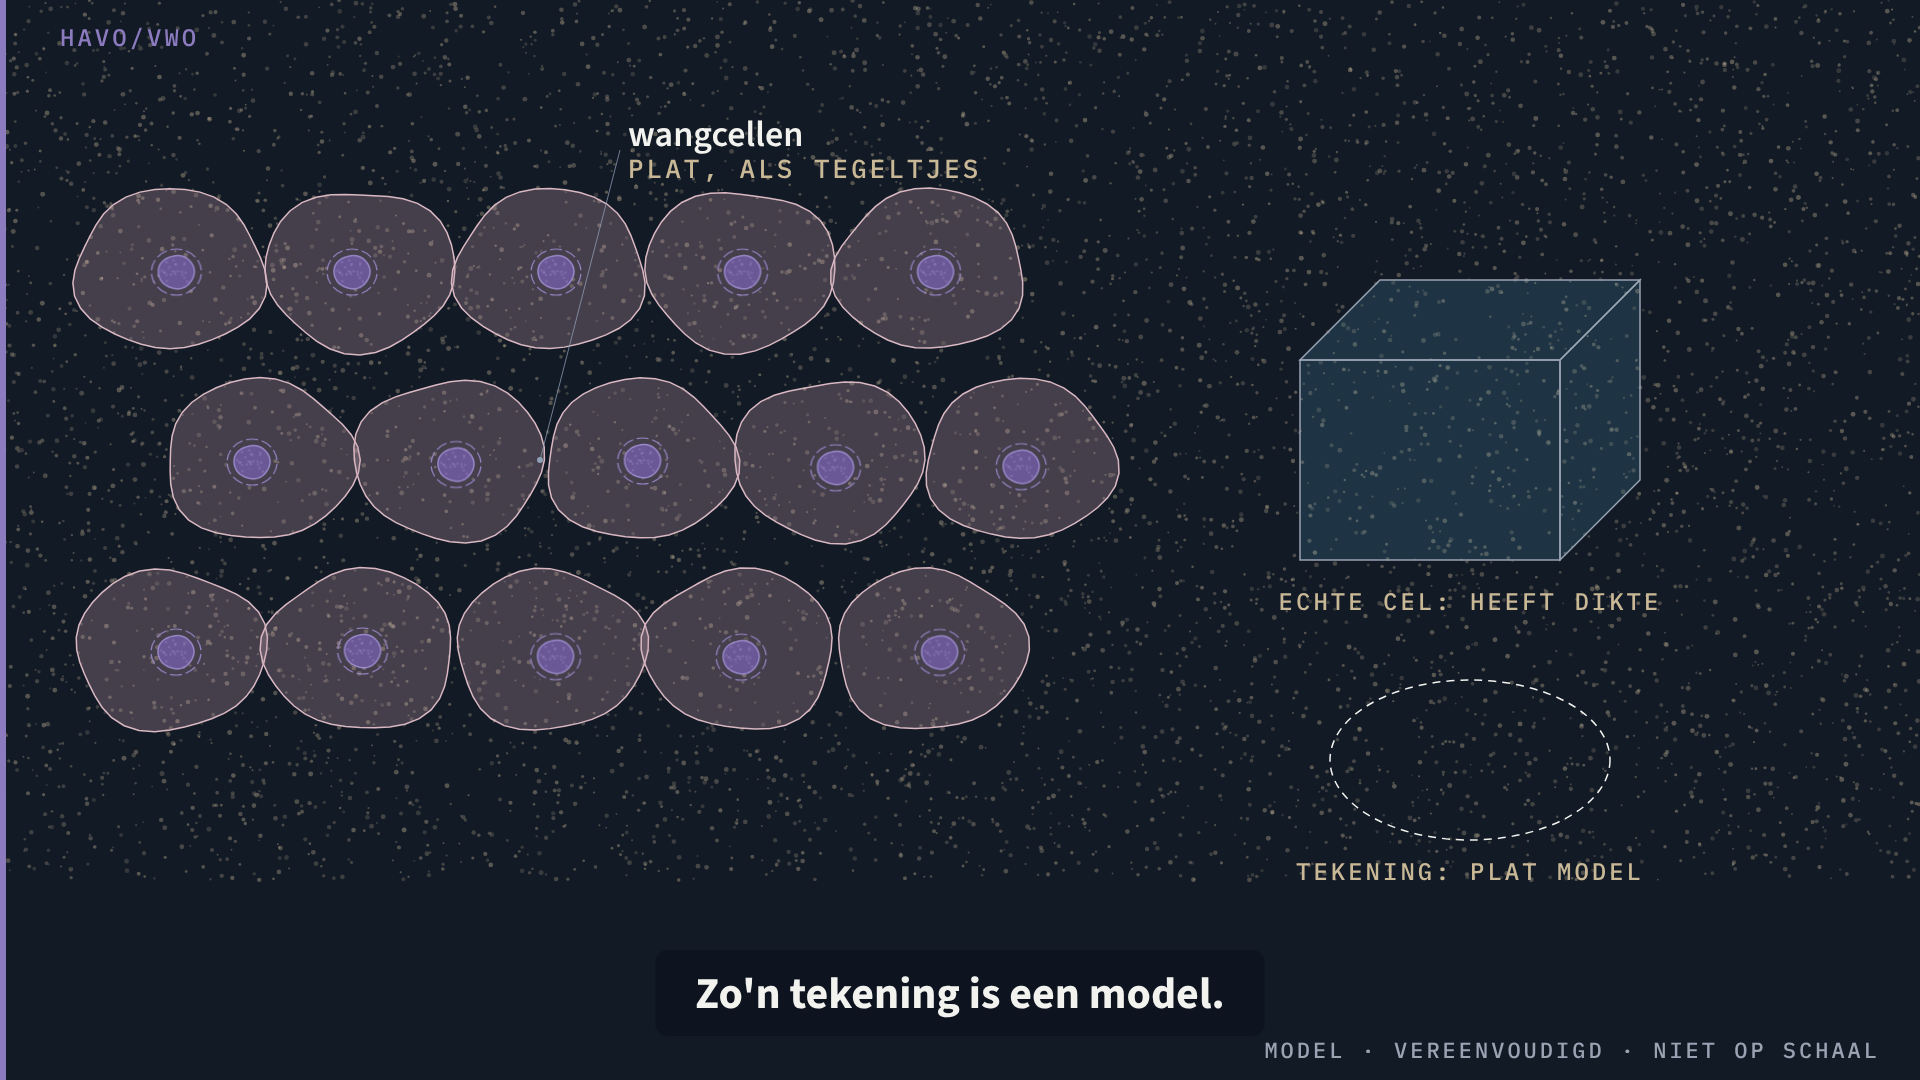
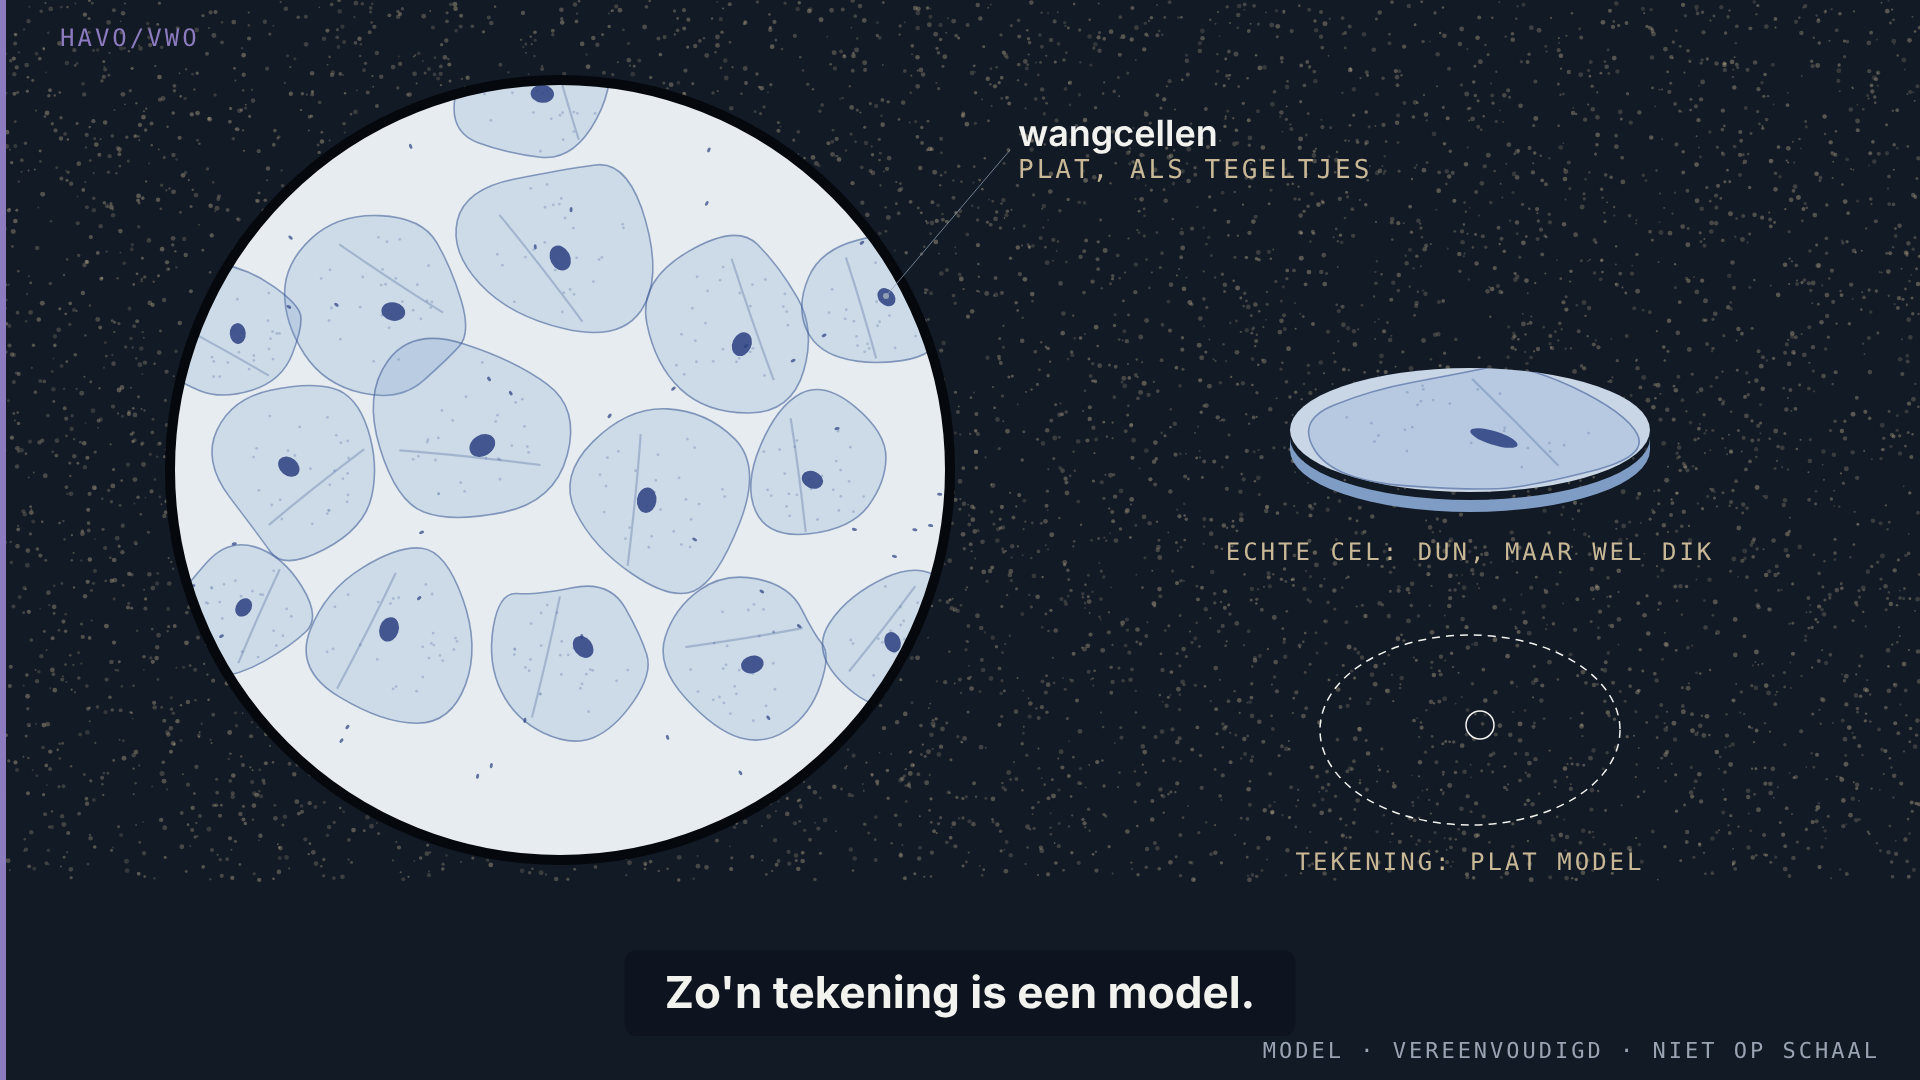
Alles is cel: stijlframes keuken en wangcellen natuurlijker
Claude-Session: https://claude.ai/code/session_01Gw2DRjDkRH759fcBi7bc7z

diff --git a/films/onderbouw/32a/1-alles-is-cel/bron/bouw/frames.html b/films/onderbouw/32a/1-alles-is-cel/bron/bouw/frames.html
@@ -16,24 +16,100 @@ function caption(s){ ctx.save(); ctx.font=fTekst(44,700); const w=Math.min(1600,
 function metaTop(s){ metaText(ctx,s,60,46,C.text2,'left',20); }
 function hvBar(){ ctx.fillStyle=C.paars; ctx.fillRect(0,0,6,H); metaText(ctx,'havo/vwo',60,46,C.paars,'left',24); }
 
-// ---- lettuce (Macro, flat, geometric) ----
+// ---- lettuce v2: naturalistic leaves along a curved spine, ruffled edge, veins ----
+function leafPath(pts){ ctx.beginPath(); pts.forEach((p,i)=>i?ctx.lineTo(p[0],p[1]):ctx.moveTo(p[0],p[1])); ctx.closePath(); }
+function slaBlad(x,y,len,wid,a0,curl,seed,col,vit){
+  // spine: start at base (x,y), direction a0 (rad, 0=up), curvature curl (rad over length)
+  const N=40, spine=[]; let px=x, py=y;
+  for(let i=0;i<=N;i++){ const t=i/N, a=a0+curl*t*t; spine.push([px,py,a,t]); px+=Math.sin(a)*len/N; py-=Math.cos(a)*len/N; }
+  const L=[],R=[];
+  spine.forEach(([sx,sy,a,t],i)=>{ const prof=Math.sqrt(Math.max(0,1-Math.pow((t-0.58)/0.58,2)));
+    const base=prof*wid*(0.45+0.55*t);
+    const ruf=wid*0.07*prof*(0.4+t)*(Math.sin(t*24+seed)+0.45*Math.sin(t*47+seed*2));
+    const nx=Math.cos(a), ny=Math.sin(a);
+    L.push([sx-nx*(base+ruf), sy-ny*(base+ruf)]); R.push([sx+nx*(base-ruf*0.8), sy+ny*(base-ruf*0.8)]); });
+  const outline=L.concat(R.reverse());
+  leafPath(outline); ctx.fillStyle=col.blad; ctx.fill(); ctx.strokeStyle=col.rand; ctx.lineWidth=1.4; ctx.stroke();
+  // lighter inner zone near the midrib (flat, no gradient)
+  const inner=[]; spine.forEach(([sx,sy,a,t])=>{ const w=Math.sqrt(Math.max(0,1-Math.pow((t-0.58)/0.58,2)))*wid*(0.45+0.55*t)*0.42; inner.push([sx-Math.cos(a)*w, sy-Math.sin(a)*w]); });
+  const inner2=[]; spine.slice().reverse().forEach(([sx,sy,a,t])=>{ const w=Math.sqrt(Math.max(0,1-Math.pow((t-0.58)/0.58,2)))*wid*(0.45+0.55*t)*0.42; inner2.push([sx+Math.cos(a)*w, sy+Math.sin(a)*w]); });
+  leafPath(inner.concat(inner2)); ctx.fillStyle=col.licht; ctx.fill();
+  // midrib
+  ctx.beginPath(); spine.forEach(([sx,sy],i)=>i?ctx.lineTo(sx,sy):ctx.moveTo(sx,sy)); ctx.strokeStyle=col.nerf; ctx.lineWidth=3.2*vit; ctx.stroke();
+  // side veins
+  ctx.lineWidth=1.1; ctx.strokeStyle=col.nerf;
+  for(let i=4;i<N-2;i+=4){ const [sx,sy,a,t]=spine[i]; const w=Math.sqrt(Math.max(0,1-Math.pow((t-0.58)/0.58,2)))*wid*(0.45+0.55*t)*0.8;
+    for(const d of [-1,1]){ const va=a+d*0.9; ctx.beginPath(); ctx.moveTo(sx,sy); ctx.quadraticCurveTo(sx+Math.sin(a)*w*0.25+d*Math.cos(a)*w*0.5, sy-Math.cos(a)*w*0.25+d*Math.sin(a)*w*0.5, sx+Math.sin(va)*w*0.55*1+d*Math.cos(a)*w*0.35, sy-Math.cos(va)*w*0.55+d*Math.sin(a)*w*0.35); ctx.stroke(); } }
+}
+function pillLabel(name,meta,ax,ay,lx,ly,boxRight){
+  ctx.save(); ctx.font=fTekst(36,600); const w1=ctx.measureText(name).width; ctx.font=fMeta(24); const w2=meta?ctx.measureText(meta.toUpperCase()).width+meta.length*3:0;
+  const w=Math.max(w1,w2)+36, h=meta?92:56, right=lx<ax&&!boxRight, x=right?lx-w:lx, y=ly-40;
+  const ex=Math.min(Math.max(ax,x),x+w), ey=Math.min(Math.max(ay,y),y+h);
+  ctx.strokeStyle='#1A2740'; ctx.lineWidth=1.5; ctx.beginPath(); ctx.moveTo(ax,ay); ctx.lineTo(ex,ey); ctx.stroke();
+  ctx.fillStyle='#1A2740'; ctx.beginPath(); ctx.arc(ax,ay,4,0,6.283); ctx.fill();
+  roundRect(ctx,x,y,w,h,6); ctx.fillStyle='rgba(18,26,38,0.88)'; ctx.fill();
+  text(ctx,name,x+18,y+40,fTekst(36,600),C.text,'left'); if(meta) metaText(ctx,meta,x+18,y+76,C.grain,'left',24); ctx.restore(); }
+const FRIS={blad:'#5E9E4F',licht:'#8DC46F',rand:'#A9D88A',nerf:'#CDE8B0'};
+const FRIS2={blad:'#4F8C44',licht:'#79B562',rand:'#97CB7C',nerf:'#C2E0A6'};
+const SLAP={blad:'#7E9A57',licht:'#A2B874',rand:'#B5C68C',nerf:'#D3DDB4'};
+function blad2(x,y,len,wid,a0,curl,seed,col,crinkle){
+  // broad, rounded lettuce leaf: obovate outline with a fine crinkled edge
+  const N=60, sp=[]; let px=x,py=y;
+  for(let i=0;i<=N;i++){ const t=i/N, a=a0+curl*t*t; sp.push([px,py,a,t]); px+=Math.sin(a)*len/N; py-=Math.cos(a)*len/N; }
+  const W=t=>wid*Math.pow(Math.sin(Math.PI*Math.min(t,0.999)),0.55)*(0.35+0.65*Math.pow(t,0.6));
+  const L=[],R=[];
+  sp.forEach(([sx,sy,a,t])=>{ const w=W(t), c=wid*crinkle*Math.pow(t,0.8)*(Math.sin(t*90+seed)*0.6+Math.sin(t*37+seed*1.7)*0.4);
+    const nx=Math.cos(a), ny=Math.sin(a); L.push([sx-nx*(w+c),sy-ny*(w+c)]); R.push([sx+nx*(w-c*0.9),sy+ny*(w-c*0.9)]); });
+  leafPath(L.concat(R.slice().reverse())); ctx.fillStyle=col.blad; ctx.fill(); ctx.strokeStyle=col.rand; ctx.lineWidth=1.6; ctx.stroke();
+  // light band along the midrib (flat second tone)
+  const I=[],J=[]; sp.forEach(([sx,sy,a,t])=>{ const w=W(t)*0.38*(1-t*0.4); I.push([sx-Math.cos(a)*w,sy-Math.sin(a)*w]); J.push([sx+Math.cos(a)*w,sy+Math.sin(a)*w]); });
+  leafPath(I.concat(J.reverse())); ctx.fillStyle=col.licht; ctx.fill();
+  ctx.beginPath(); sp.slice(0,N-6).forEach(([sx,sy],i)=>i?ctx.lineTo(sx,sy):ctx.moveTo(sx,sy)); ctx.strokeStyle=col.nerf; ctx.lineWidth=4; ctx.stroke();
+  ctx.lineWidth=1.2; ctx.globalAlpha=0.7;
+  for(let i=8;i<N-8;i+=7){ const [sx,sy,a,t]=sp[i], w=W(t)*0.85; for(const d of [-1,1]){ const ex=sx+d*Math.cos(a)*w+Math.sin(a)*w*0.45, ey=sy+d*Math.sin(a)*w-Math.cos(a)*w*0.45;
+    ctx.beginPath(); ctx.moveTo(sx,sy); ctx.quadraticCurveTo(sx+d*Math.cos(a)*w*0.5, sy+d*Math.sin(a)*w*0.5, ex, ey); ctx.stroke(); } }
+  ctx.globalAlpha=1;
+}
+const KROP_F=[{blad:'#3F7F3A',licht:'#5E9C4C',rand:'#77B060',nerf:'#B9DB9C'},{blad:'#4E9443',licht:'#71B058',rand:'#8CC470',nerf:'#C8E6AA'},{blad:'#73B356',licht:'#9CCD75',rand:'#B5DD8E',nerf:'#E0F2C8'},{blad:'#A2D27A',licht:'#C3E59C',rand:'#D4EDB4',nerf:'#EEF8DC'}];
+const KROP_S=[{blad:'#6F8A4A',licht:'#8CA35F',rand:'#A0B577',nerf:'#CBD6A8'},{blad:'#7E9A55',licht:'#9BB06C',rand:'#AEC083',nerf:'#D4DDB2'},{blad:'#97AE68',licht:'#B2C483',rand:'#C2D097',nerf:'#E1E8C6'},{blad:'#B4C682',licht:'#CAD89E',rand:'#D6E1B0',nerf:'#ECF1D8'}];
 function krop(x,y,s,slap){
-  const leaves=[[-1,0.9],[1,0.9],[-0.55,1.1],[0.55,1.1],[0,1.2]];
-  leaves.forEach(([d,hh],i)=>{ ctx.save(); ctx.translate(x,y);
-    const tip = slap? {x:d*150*s, y:-hh*40*s+60*s} : {x:d*70*s, y:-hh*150*s};
-    ctx.beginPath(); ctx.moveTo(-40*s+d*20*s,0); ctx.quadraticCurveTo(tip.x*0.6-50*s, (tip.y)*0.8, tip.x, tip.y);
-    ctx.quadraticCurveTo(tip.x*0.6+50*s, tip.y*0.8, 40*s+d*20*s,0); ctx.closePath();
-    shape(ctx, i%2? '#6FB57F':'#5FA86E', lighten('#5FA86E',0.35), 1.5); ctx.restore(); });
-  ctx.beginPath(); ctx.ellipse(x,y,70*s,26*s,0,0,6.283); shape(ctx,'#8FCB9B',lighten('#8FCB9B',0.3),1.5);
+  const P=slap?KROP_S:KROP_F;
+  // rings from outside (back) to inside (front/top)
+  const rings = slap
+    ? [{n:7,spread:1.45,curl:0.5,len:230,wid:118,dx:70},{n:6,spread:1.15,curl:0.45,len:190,wid:104,dx:50},{n:5,spread:0.8,curl:0.4,len:140,wid:84,dx:30},{n:3,spread:0.4,curl:0.35,len:90,wid:60,dx:12}]
+    : [{n:7,spread:0.95,curl:-0.25,len:215,wid:112,dx:62},{n:6,spread:0.72,curl:-0.35,len:200,wid:104,dx:44},{n:5,spread:0.5,curl:-0.45,len:175,wid:92,dx:26},{n:3,spread:0.22,curl:-0.4,len:140,wid:78,dx:10}];
+  rings.forEach((r,k)=>{ const order=[]; for(let i=0;i<r.n;i++) order.push(i);
+    order.sort((a,b)=>Math.abs(b-(r.n-1)/2)-Math.abs(a-(r.n-1)/2)); // sides first, centre leaf last
+    order.forEach(i=>{ const u=r.n>1? i/(r.n-1)*2-1 : 0, h=hash(i*7+k*13);
+      const a0=u*r.spread, curl=u*r.curl ;
+      blad2(x+u*r.dx*s, y-4*s, r.len*s*(0.9+0.2*h), r.wid*s*(0.9+0.15*h), a0, curl, i*2.3+k*5, P[k], slap?0.035:0.05); }); });
 }
 function frameKeuken(){
-  ctx.fillStyle=DAY.sky; ctx.fillRect(0,0,W,H);
-  ctx.fillStyle='#7E9AB4'; for(let i=0;i<7;i++){ ctx.fillRect(140+i*250,120,180,4); } // tegelvoegen, subtiel
-  ctx.fillStyle=DAY.sand; ctx.fillRect(0,640,W,40); ctx.fillStyle='#B08A5C'; ctx.fillRect(0,680,W,CAPTION_Y-680+200);
-  krop(620,640,1.25,false); krop(1300,640,1.25,true);
-  label(ctx,'stevig','net uit de koelkast',660,470,860,300,1);
-  label(ctx,'slap','een dag op het aanrecht',1330,600,1460,380,1);
-  metaTop('onderbouw · kerndoelen · film 1');
+  // wall + window with daylight garden
+  ctx.fillStyle='#8EA7BE'; ctx.fillRect(0,0,W,H);
+  ctx.fillStyle='#9BB2C7'; for(let r=0;r<6;r++) for(let c=0;c<16;c++){ const tx=c*124+(r%2)*62-30, ty=60+r*96; roundRect(ctx,tx,ty,118,90,3); ctx.fill(); }
+  ctx.fillStyle='#E9EEF2'; roundRect(ctx,1230,40,560,420,6); ctx.fill();
+  ctx.fillStyle='#A9CBE4'; ctx.fillRect(1250,60,520,380);
+  ctx.fillStyle='#6F9F63'; ctx.beginPath(); ctx.moveTo(1250,330); for(let i=0;i<=26;i++){ ctx.lineTo(1250+i*20, 300+Math.sin(i*0.9)*22+hash(i)*18); } ctx.lineTo(1770,440); ctx.lineTo(1250,440); ctx.closePath(); ctx.fill();
+  ctx.fillStyle='#5A8752'; ctx.beginPath(); ctx.arc(1360,290,70,0,6.283); ctx.arc(1440,270,60,0,6.283); ctx.fill();
+  ctx.fillStyle='#E9EEF2'; ctx.fillRect(1505,60,10,380); ctx.fillRect(1250,245,520,10);
+  // wooden counter top + front
+  ctx.fillStyle='#B98B5A'; ctx.fillRect(0,600,W,70);
+  ctx.strokeStyle='#A47648'; ctx.lineWidth=1.2; for(let i=0;i<9;i++){ ctx.beginPath(); ctx.moveTo(0,608+i*7); for(let x=0;x<=W;x+=60) ctx.lineTo(x,608+i*7+Math.sin(x*0.004+i)*2.5); ctx.stroke(); }
+  ctx.fillStyle='#8C6440'; ctx.fillRect(0,670,W,H-670);
+  ctx.fillStyle='#7A5636'; for(let i=0;i<6;i++){ roundRect(ctx,60+i*320,700,290,170,6); ctx.fill(); }
+  ctx.fillStyle='#C9B896'; for(let i=0;i<6;i++){ roundRect(ctx,175+i*320,715,60,8,4); ctx.fill(); }
+  // shadows under the heads (flat, darker wood)
+  ctx.fillStyle='rgba(60,40,20,0.25)'; ctx.beginPath(); ctx.ellipse(520,628,230,22,0,0,6.283); ctx.fill(); ctx.beginPath(); ctx.ellipse(1075,630,280,20,0,0,6.283); ctx.fill();
+  krop(520,625,1.0,false); krop(1075,625,0.95,true);
+  // glass bowl of water on the right
+  ctx.fillStyle='rgba(90,164,201,0.35)'; ctx.beginPath(); ctx.moveTo(1480,545); ctx.lineTo(1730,545); ctx.lineTo(1705,625); ctx.lineTo(1505,625); ctx.closePath(); ctx.fill();
+  ctx.strokeStyle='#DCEAF3'; ctx.lineWidth=2; ctx.beginPath(); ctx.moveTo(1465,500); ctx.lineTo(1490,628); ctx.lineTo(1720,628); ctx.lineTo(1745,500); ctx.stroke();
+  ctx.strokeStyle='rgba(220,234,243,0.8)'; ctx.beginPath(); ctx.moveTo(1474,545); ctx.lineTo(1736,545); ctx.stroke();
+  pillLabel('stevig','net uit de koelkast',520,450,130,230,true);
+  pillLabel('slap','een dag op het aanrecht',1075,520,720,300,true);
+  pillLabel('koud water','',1600,590,1500,760,true);
+  metaText(ctx,'onderbouw · kerndoelen · film 1',60,46,'#1A2740','left',20);
   caption('Nu hangen de blaadjes slap.');
 }
 
@@ -82,19 +158,46 @@ function frameVraag(){
 
 // ---- havo/vwo: de tekening is een model ----
 function tile(x,y,w,h,seed){ blob(ctx,x,y,w,h,0.08,seed,0); shape(ctx,rgba('#C9A3B0',0.28),'#D9B8C2',1.5); }
+function wangcel(x,y,r,rot,seed,tilt){
+  // flattened, irregular polygon like a squamous cheek cell stained with methylene blue
+  const n=7+Math.floor(hash(seed)*3), pts=[];
+  for(let i=0;i<n;i++){ const a=rot+i/n*6.283+(hash(seed+i*1.3)-0.5)*0.5, rr=r*(0.78+0.35*hash(seed*2+i));
+    pts.push([x+Math.cos(a)*rr, y+Math.sin(a)*rr*(tilt||1)]); }
+  ctx.beginPath(); pts.forEach((p,i)=>{ const q=pts[(i+1)%n], m=[(p[0]+q[0])/2,(p[1]+q[1])/2]; if(!i){ const l=pts[n-1]; ctx.moveTo((l[0]+p[0])/2,(l[1]+p[1])/2); } ctx.quadraticCurveTo(p[0],p[1],m[0],m[1]); });
+  ctx.closePath(); ctx.fillStyle='rgba(120,155,205,0.22)'; ctx.fill(); ctx.strokeStyle='rgba(55,85,145,0.55)'; ctx.lineWidth=1.6; ctx.stroke();
+  // a fold / crease
+  ctx.beginPath(); const f=hash(seed+9)*6.283; ctx.moveTo(x+Math.cos(f)*r*0.75,y+Math.sin(f)*r*0.75*(tilt||1));
+  ctx.quadraticCurveTo(x+Math.cos(f+1.4)*r*0.25,y+Math.sin(f+1.4)*r*0.25,x+Math.cos(f+2.4)*r*0.7,y+Math.sin(f+2.4)*r*0.7*(tilt||1));
+  ctx.strokeStyle='rgba(55,85,145,0.28)'; ctx.lineWidth=2.2; ctx.stroke();
+  // granules
+  ctx.fillStyle='rgba(60,90,150,0.25)'; for(let i=0;i<26;i++){ const a=hash(seed+i*2.1)*6.283, d=Math.sqrt(hash(seed*3+i))*r*0.7; ctx.beginPath(); ctx.arc(x+Math.cos(a)*d,y+Math.sin(a)*d*(tilt||1),1.4,0,6.283); ctx.fill(); }
+  // nucleus: small, dark, slightly off-centre
+  const nx=x+(hash(seed+4)-0.5)*r*0.3, ny=y+(hash(seed+5)-0.5)*r*0.3*(tilt||1);
+  ctx.beginPath(); ctx.ellipse(nx,ny,r*0.13,r*0.1*(tilt||1),rot,0,6.283); ctx.fillStyle='rgba(42,62,128,0.85)'; ctx.fill();
+}
 function frameModel(){
   bg(ctx,'micro');
-  for(let i=0;i<5;i++) for(let j=0;j<3;j++){ const x=170+i*190+(j%2)*90, y=270+j*190; tile(x,y,95,80,i*3+j); ctx.save(); ctx.globalAlpha=0.9; nucleus(ctx,x+(hash(i+j)*20-10),y+(hash(i*j+3)*16-8),18,1,0); ctx.restore(); }
-  label(ctx,'wangcellen','plat, als tegeltjes',540,460,620,150,1);
-  // right: 3D block vs flat drawing
-  const x0=1300,y0=360;
-  ctx.strokeStyle=C.text2; ctx.lineWidth=1.5; ctx.fillStyle=rgba(C.teal,0.18);
-  ctx.beginPath(); ctx.moveTo(x0,y0); ctx.lineTo(x0+260,y0); ctx.lineTo(x0+340,y0-80); ctx.lineTo(x0+80,y0-80); ctx.closePath(); ctx.fill(); ctx.stroke();
-  ctx.beginPath(); ctx.rect(x0,y0,260,200); ctx.fill(); ctx.stroke();
-  ctx.beginPath(); ctx.moveTo(x0+260,y0); ctx.lineTo(x0+340,y0-80); ctx.lineTo(x0+340,y0+120); ctx.lineTo(x0+260,y0+200); ctx.closePath(); ctx.fill(); ctx.stroke();
-  metaText(ctx,'echte cel: heeft dikte',x0+170,y0+250,C.grain,'center',24);
-  ctx.beginPath(); ctx.ellipse(x0+170,y0+400,140,80,0,0,6.283); ctx.strokeStyle=C.text; ctx.setLineDash([8,6]); ctx.stroke(); ctx.setLineDash([]);
-  metaText(ctx,'tekening: plat model',x0+170,y0+520,C.grain,'center',24);
+  // microscope field of view: bright circle, as through the eyepiece
+  const cx=560, cy=470, R=390;
+  ctx.save(); ctx.beginPath(); ctx.arc(cx,cy,R,0,6.283); ctx.clip();
+  ctx.fillStyle='#E6ECEF'; ctx.fillRect(cx-R,cy-R,2*R,2*R);
+  const cells=[[380,300,92,0.2],[560,250,100,1.1],[730,330,95,2.0],[300,470,90,0.7],[470,430,105,2.6],[660,500,98,1.7],[820,470,85,0.4],[390,640,96,1.9],[570,660,92,0.9],[750,660,88,2.9],[230,330,80,1.5],[880,300,78,0.8],[240,610,76,2.2],[540,90,90,0.1],[900,640,80,1.2]];
+  cells.forEach(([x,y,r,rot],i)=>wangcel(x,y,r,rot,i*5.7+2));
+  // a few bacteria from the mouth
+  ctx.fillStyle='rgba(42,62,128,0.7)'; for(let i=0;i<40;i++){ const a=hash(i*3.3)*6.283, d=Math.sqrt(hash(i*7.1))*R; ctx.beginPath(); ctx.ellipse(cx+Math.cos(a)*d,cy+Math.sin(a)*d,2.6,1.5,a,0,6.283); ctx.fill(); }
+  ctx.restore();
+  ctx.beginPath(); ctx.arc(cx,cy,R,0,6.283); ctx.strokeStyle='#05080D'; ctx.lineWidth=10; ctx.stroke();
+  label(ctx,'wangcellen','plat, als tegeltjes',886,296,1010,150,1);
+  // right: one cheek cell tilted so you see its thickness, versus the flat drawing
+  const x0=1470,y0=430;
+  ctx.save(); ctx.translate(0,14); ctx.fillStyle='#7F9CC4';
+  ctx.beginPath(); ctx.ellipse(x0,y0+6,180,62,0,0,Math.PI); ctx.lineTo(x0-180,y0-6); ctx.ellipse(x0,y0-6,180,62,0,Math.PI,0,true); ctx.closePath(); ctx.fill(); ctx.restore();
+  ctx.save(); ctx.fillStyle='#C9D6E6'; ctx.beginPath(); ctx.ellipse(x0,y0,180,62,0,0,6.283); ctx.fill(); ctx.restore();
+  ctx.save(); ctx.beginPath(); ctx.ellipse(x0,y0,180,62,0,0,6.283); ctx.clip(); wangcel(x0,y0,190,0.3,77,0.36); ctx.restore();
+  metaText(ctx,'echte cel: dun, maar wel dik',x0,y0+130,C.grain,'center',24);
+  ctx.beginPath(); ctx.ellipse(x0,y0+300,150,95,0,0,6.283); ctx.strokeStyle=C.text; ctx.setLineDash([8,6]); ctx.lineWidth=1.5; ctx.stroke(); ctx.setLineDash([]);
+  ctx.beginPath(); ctx.arc(x0+10,y0+295,14,0,6.283); ctx.strokeStyle=C.text; ctx.stroke();
+  metaText(ctx,'tekening: plat model',x0,y0+440,C.grain,'center',24);
   hvBar();
   scaleBar(ctx,'model · vereenvoudigd · niet op schaal');
   caption('Zo\'n tekening is een model.');
